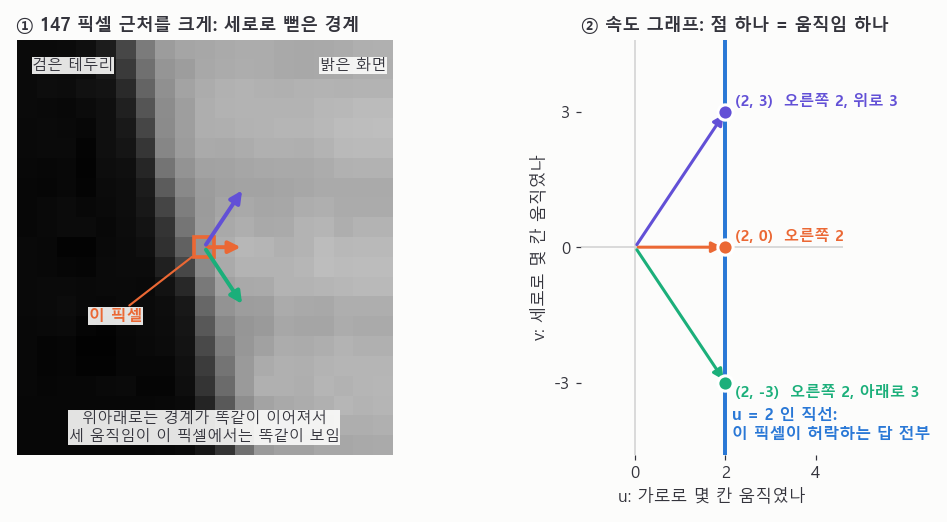
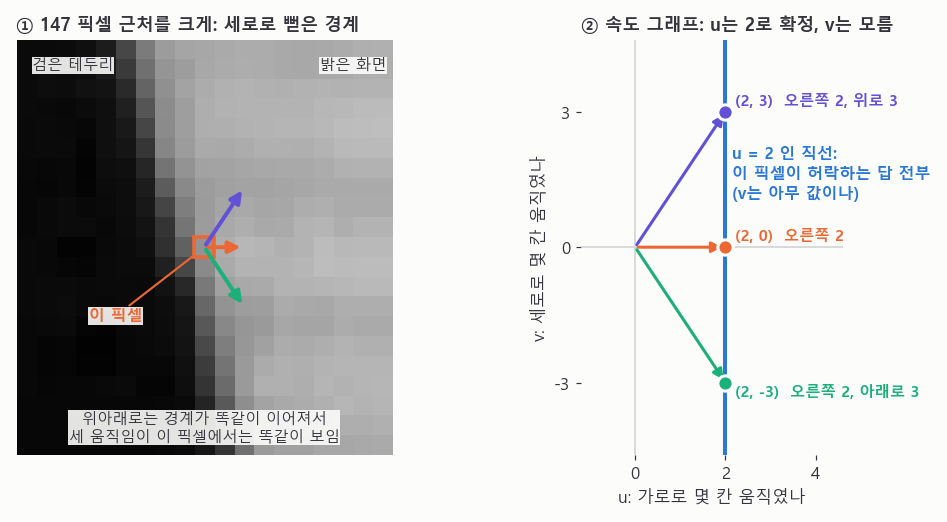
머신비전 2강: 속도 공간 직선이 세로 움직임이 아니라 u 고정임을 명확히

diff --git a/_posts/2026-07-21-mit-mv-02-motion-field.md b/_posts/2026-07-21-mit-mv-02-motion-field.md
@@ -134,14 +134,14 @@ $$
 
 $$E_y$$는 위아래 픽셀과의 밝기 차이입니다. 식은 하나인데 모르는 값은 $$u, v$$ 둘입니다.
 
-이것을 그래프로 그려 보겠습니다. 가로축을 $$u$$, 세로축을 $$v$$로 놓은 그래프를 **속도 공간**이라고 하고, 여기서 점 하나는 "움직임 하나"를 뜻합니다. (2, 0), (2, 3), (2, −3), (2, −10)처럼 가로로 2칸이기만 하면 세로는 어떤 값이든 가능한 움직임입니다. 이것들을 전부 찍으면 $$u = 2$$를 지나는 세로 직선이 됩니다. 식으로 봐도, $$E_y$$를 0으로 놓으면 $$50u + 0 \cdot v - 100 = 0$$이라 $$u = 2$$만 정해지고 $$v$$는 아무 값이나 됩니다.
+이것을 그래프로 그려 보겠습니다. 가로축을 $$u$$, 세로축을 $$v$$로 놓은 그래프를 **속도 공간**이라고 하고, 여기서 점 하나는 "움직임 하나"를 뜻합니다. (2, 0), (2, 3), (2, −3), (2, −10)처럼 가로로 2칸이기만 하면 세로는 어떤 값이든 가능한 움직임입니다. 이것들을 전부 찍으면 $$u = 2$$인 직선이 됩니다. 이 직선이 세로로 서 있는 것은 $$u$$가 2로 고정되고 $$v$$만 자유롭게 움직이기 때문이지, 실제로 세로로 움직였다는 뜻이 아닙니다. 식으로 봐도, $$E_y$$를 0으로 놓으면 $$50u + 0 \cdot v - 100 = 0$$이라 $$u = 2$$만 정해지고 $$v$$는 아무 값이나 됩니다.
 
 ![픽셀 하나가 세로 경계 위에 있을 때 가능한 움직임들과 속도 공간의 직선](/assets/img/posts/mv/lec02-one-pixel-line.png)
-_왼쪽: 앞에서 계산한 147 픽셀(주황 칸) 근처를 크게 키운 모습입니다. 한 칸이 픽셀 하나이고, 검은 테두리와 밝은 화면의 경계가 세로로 뻗어 있습니다. 화살표는 그 픽셀이 움직일 수 있는 방향 세 가지입니다(오른쪽 2칸, 오른쪽 2칸+위로 3칸, 오른쪽 2칸+아래로 3칸). 경계가 위아래로 똑같이 생겨서 이 픽셀이 보는 밝기 변화는 셋 다 같습니다. 오른쪽: 세 움직임을 속도 공간에 점으로 찍으면 모두 $$u = 2$$인 파란 세로 직선 위에 놓입니다. 픽셀 하나가 알려 주는 것은 이 직선까지입니다._
+_왼쪽: 앞에서 계산한 147 픽셀(주황 칸) 근처를 크게 키운 모습입니다. 한 칸이 픽셀 하나이고, 검은 테두리와 밝은 화면의 경계가 세로로 뻗어 있습니다. 화살표는 그 픽셀이 움직일 수 있는 방향 세 가지입니다(오른쪽 2칸, 오른쪽 2칸+위로 3칸, 오른쪽 2칸+아래로 3칸). 경계가 위아래로 똑같이 생겨서 이 픽셀이 보는 밝기 변화는 셋 다 같습니다. 오른쪽: 세 움직임을 속도 공간에 점으로 찍으면 모두 $$u = 2$$인 파란 직선 위에 놓입니다. 이 픽셀로 확실히 아는 것은 $$u = 2$$뿐이고 $$v$$는 모릅니다. 픽셀 하나가 알려 주는 것은 이 직선까지입니다._
 
 그래서 "픽셀 하나는 속도가 이 직선 위 어딘가에 있다는 것까지만 알려 준다"고 말합니다. 경계가 비스듬하면 직선도 같이 기울어질 뿐입니다. 직선은 언제나 경계선과 나란하게 놓이는데, 경계를 따라 미끄러지는 움직임은 그 픽셀에서 보이지 않기 때문입니다.
 
-그러면 답을 하나로 정하려면 어떻게 할까요? 방향이 다른 경계 위의 픽셀을 하나 더 쓰면 됩니다. 예를 들어 스택짱 눈의 윗가장자리는 가로로 뻗은 경계라서, 그 위의 픽셀은 반대로 "세로로 몇 칸"만 알려 주고 가로로는 아무 값이나 허락합니다. 이 픽셀의 직선은 가로 직선이 됩니다. 세로 직선과 가로 직선은 딱 한 점에서 만나고, 그 점이 답입니다.
+그러면 답을 하나로 정하려면 어떻게 할까요? 방향이 다른 경계 위의 픽셀을 하나 더 쓰면 됩니다. 예를 들어 스택짱 눈의 윗가장자리는 가로로 뻗은 경계라서, 그 위의 픽셀은 반대로 "세로로 몇 칸"만 알려 주고 가로로는 아무 값이나 허락합니다. 이 픽셀의 직선은 $$v$$가 고정된 가로 방향 직선이 됩니다. $$u$$ 고정 직선과 $$v$$ 고정 직선은 딱 한 점에서 만나고, 그 점이 답입니다.
 
 ![속도 공간에서 픽셀마다 생기는 직선](/assets/img/posts/mv/lec02-velocity-lines-v2.png)
 _왼쪽: 경계가 비스듬한 픽셀 하나가 만드는 직선입니다. 초록 화살표 $$(E_x, E_y)$$는 밝기가 가장 빨리 밝아지는 방향이고, 직선은 이 화살표에 수직, 즉 경계와 나란합니다. 가운데: 경계 방향이 다른 픽셀 두 개면 두 직선이 만나는 점이 답입니다. 오른쪽: 두 픽셀이 같은 방향의 경계 위에 있으면 직선이 겹쳐서 답을 하나로 고를 수 없습니다._
